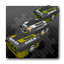
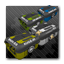
+ Munitionsarten nun mit eigenen Versionen. + Raketenbox hinzugefügt.

Changed region(s): [[0.0625, 0.0625, 0.9375, 0.9375], [0.5625, 0.5, 0.9062, 0.7188]]

diff --git a/ModernCombatFINALTRY.c4d/Items.c4d/Ammo.c4d/AmmoBox.c4d/Script.c b/ModernCombatFINALTRY.c4d/Items.c4d/Ammo.c4d/AmmoBox.c4d/Script.c
@@ -3,5 +3,5 @@
 #strict 2
 #include MCAM
 
-public func AmmoID()		{return STAM;}
-public func AmmoCount()		{return 50;}
+public func AmmoID()		{return STAM;}	//ID der Munition
+public func AmmoCount()		{return 50;}	//Menge der Munition

diff --git a/ModernCombatFINALTRY.c4d/Items.c4d/Ammo.c4d/GrenadeBox.c4d/Script.c b/ModernCombatFINALTRY.c4d/Items.c4d/Ammo.c4d/GrenadeBox.c4d/Script.c
@@ -3,5 +3,5 @@
 #strict 2
 #include MCAM
 
-public func AmmoID()		{return GRAM;}
-public func AmmoCount()		{return 12;}
+public func AmmoID()		{return GRAM;}	//ID der Munition
+public func AmmoCount()		{return 12;}	//Menge der Munition

diff --git a/ModernCombatFINALTRY.c4d/Items.c4d/Ammo.c4d/MissileBox.c4d/Script.c b/ModernCombatFINALTRY.c4d/Items.c4d/Ammo.c4d/MissileBox.c4d/Script.c
@@ -1,0 +1,7 @@
+/*-- Raketenbox --*/
+
+#strict 2
+#include MCAM
+
+public func AmmoID()		{return MIAM;}	//ID der Munition
+public func AmmoCount()		{return 4;}	//Menge der Munition

diff --git a/ModernCombatFINALTRY.c4d/Items.c4d/Ammo.c4d/GrenadeBox.c4d/Grenades.c4d/Script.c b/ModernCombatFINALTRY.c4d/Items.c4d/Ammo.c4d/GrenadeBox.c4d/Grenades.c4d/Script.c
@@ -1,0 +1,7 @@
+/*-- Granaten --*/
+
+#strict
+
+
+public func IsAmmo()	{return(true);}	//Ist Munitionsart
+public func MaxAmmo()	{return(60);}	//Maximal tragbar

diff --git a/ModernCombatFINALTRY.c4d/Items.c4d/Ammo.c4d/MissileBox.c4d/Missiles.c4d/Script.c b/ModernCombatFINALTRY.c4d/Items.c4d/Ammo.c4d/MissileBox.c4d/Missiles.c4d/Script.c
@@ -1,0 +1,7 @@
+/*-- Raketen --*/
+
+#strict
+
+
+public func IsAmmo()	{return(true);}	//Ist Munitionsart
+public func MaxAmmo()	{return(20);}	//Maximal tragbar

diff --git a/ModernCombatFINALTRY.c4d/Items.c4d/Ammo.c4d/AmmoBox.c4d/Bullets.c4d/Script.c b/ModernCombatFINALTRY.c4d/Items.c4d/Ammo.c4d/AmmoBox.c4d/Bullets.c4d/Script.c
@@ -1,0 +1,6 @@
+/*-- Kugeln --*/
+
+#strict
+
+public func IsAmmo()	{return(true);}	//Ist Munitionsart
+public func MaxAmmo()	{return(300);}	//Maximal tragbar
